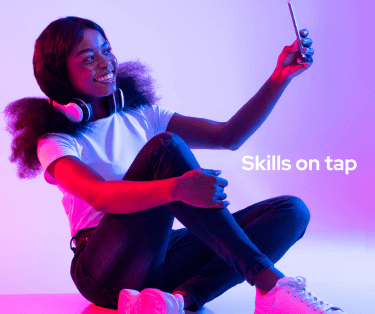
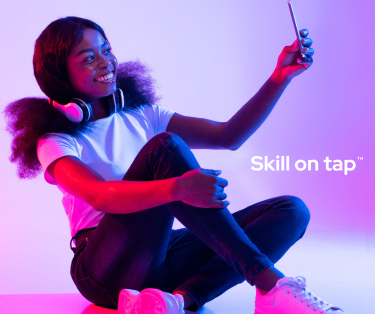
Onboarding step 3 (#162)
* feat: prepare UI and logic for onboarding step 1:basic info

* fix: adjust steps footer to show number of steps

* fix: uncomment code snippet

* feat: abstract reusable onboarding step controller into separate component

* chore: populate initial username and about details from skillrDDto

* feat: build social media onboarding step and plug to backend

* feat: prepare UI and upload logic for profile image onboarding

* chore: change 'skills' to 'skill' in onboarding banner image

* feat: enable image cropping and upload image to backend

* chore: add imageToCrop to useCallback deps

* chore: remove unused reject parameter and Area type assertion

Changed region(s): [[0.6453, 0.4873, 0.968, 0.5732]]

diff --git a/pages/onboarding/skillr/steps/image.tsx b/pages/onboarding/skillr/steps/image.tsx
@@ -1,14 +1,216 @@
-import React from 'react';
+import React, { ChangeEvent, useCallback, useState } from 'react';
+import { GetServerSideProps } from 'next';
 import OnboardingLayout from '@/components/UI/Onboarding/OnboardingLayout/OnboardingLayout';
+import { SkillrDDto } from 'pages/api/skillrs/me';
+import { authedFetch } from '@/lib/authed-fetch';
+import { getUnexpiredToken } from '@/lib/api-helpers';
+import { getSkillrById } from 'pages/api/skillrs/[skillrId]';
+import StepsController from '@/components/UI/Onboarding/StepsController/StepsController';
+import { SkillrOnboardingSteps } from '@/lib/types/skillr';
+import { Modal } from 'react-responsive-modal';
+import 'react-responsive-modal/styles.css';
+import Cropper, { Area } from 'react-easy-crop';
+import getCroppedImg from '@/lib/crop-image';
+import Router from 'next/router';
 
-type UploadImageProps = {};
+type UploadImageProps = {
+    skillrDDto: SkillrDDto;
+};
 
-const UploadImage: React.FC<UploadImageProps> = () => {
+const UploadImage: React.FC<UploadImageProps> = ({ skillrDDto }) => {
+    const [image, setImage] = useState<string | null>(skillrDDto.profileImage);
+    const [isLoading, setIsLoading] = useState<boolean>(false);
+    const [uploadError, setUploadError] = useState<string>('');
+
+    // Crop state details
+    const [cropModalOpen, setCropModalOpen] = useState<boolean>(false); // Controls open state of crop modal
+    const [imageToCrop, setImageToCrop] = useState<string>(''); // Original image to be cropped
+    const [crop, setCrop] = useState({ x: 0, y: 0 }); // Crop aspect location
+    const [rotation, setRotation] = useState(0); // Control crop rotation degree
+    const [zoom, setZoom] = useState(1); // Control zoom level
+    const [croppedAreaPixels, setCroppedAreaPixels] = useState<Area>({ width: 0, height: 0, x: 0, y: 0 }); // CroppedAreaPixels for generating cropped image
+    const [croppedImageFile, setCroppedImageFile] = useState<File | null>(null); // File form of cropped image. To be uploaded to the backend
+
+    const onCropComplete = useCallback((_croppedArea, areaPixels) => {
+        console.log(areaPixels);
+        setCroppedAreaPixels(areaPixels);
+    }, []);
+
+    const initiateCrop = (e: ChangeEvent<HTMLInputElement>) => {
+        const imageFile = e.target.files?.[0];
+        if (!imageFile) {
+            return;
+        }
+        // After choosing the image, generate a url of the image and open the crop modal for the user to crop the image.
+        setImageToCrop(URL.createObjectURL(imageFile));
+        setCropModalOpen(true);
+        e.target.value = ''; // Then, reset file input
+    };
+
+    const saveCroppedImage = useCallback(async () => {
+        try {
+            // After cropping, generate cropped image url and image file, then store in appropriate states
+            const result = await getCroppedImg(imageToCrop, croppedAreaPixels, rotation);
+            if (result) {
+                setImage(result.url);
+                setCroppedImageFile(new File([result.blob!], 'profile-image.png', { type: 'image/png' }));
+            }
+            onCloseModal();
+        } catch (e) {
+            console.error(e);
+        }
+    }, [croppedAreaPixels, rotation, imageToCrop]);
+
+    const uploadCroppedImage = async () => {
+        // If there is no new image file upload, skip upload and navigate to next step
+        if (!croppedImageFile) {
+            Router.push(`/onboarding/skillr/steps/content`);
+            return;
+        }
+
+        const formData = new FormData();
+        formData.append('file', croppedImageFile);
+        formData.append('target', 'profileImage');
+
+        setIsLoading(true);
+        try {
+            const data = await authedFetch('/api/skillrs/media', {
+                method: 'POST',
+                body: formData,
+            }).then((res) => res.json());
+
+            if (data.profileImage) {
+                Router.push(`/onboarding/skillr/steps/content`);
+            } else {
+                setUploadError(data.errors?.[0]?.messages?.[0]);
+            }
+        } catch (error) {
+            console.log(error);
+        }
+        setIsLoading(false);
+    };
+
+    const onCloseModal = () => setCropModalOpen(false);
+
     return (
         <OnboardingLayout>
-            <div></div>
+            <div className="pt-5 pb-9">
+                <div className="w-full">
+                    <div className="flex px-4 flex-col items-center">
+                        <h2 className="font-semibold mb-1 text-xl md:text-3xl text-center">Profile</h2>
+                        <p className="text-sm text-center">
+                            Complete all required fields below. Don&apos;t worry, you can always change them later.
+                        </p>
+                    </div>
+                    <hr className="my-4 md:my-5" />
+                    <div className="px-4 md:px-10">
+                        <div className="w-full max-w-[690px] mx-auto flex flex-col space-y-5 md:space-y-5">
+                            <h3 className="text-center font-bold text-xl">
+                                Add a profile photo that clearly shows your face.
+                            </h3>
+                            <div className="flex flex-col pt-4 items-center w-full">
+                                <div className="flex relative items-center justify-center">
+                                    <div className="bg-white rounded-full">
+                                        <img
+                                            className="rounded-full object-cover w-[160px] h-[160px]"
+                                            src={image ?? '/avatar-placeholder.svg'}
+                                            alt={skillrDDto.user?.displayName}
+                                        ></img>
+                                    </div>
+                                    <div className="absolute z-10 bottom-0 right-0">
+                                        <div className="relative">
+                                            <input
+                                                className="top-0 absolute w-full cursor-pointer opacity-0 h-full"
+                                                type="file"
+                                                onChange={initiateCrop}
+                                                accept="image/jpeg, image/png"
+                                            />
+                                            <div className="rounded-full bg-white cursor-pointer shadow-skillr-lg w-14 h-14 justify-center flex">
+                                                <img className="w-8" src="/icons/camera.svg" alt="Edit" />
+                                            </div>
+                                        </div>
+                                    </div>
+                                    <Modal
+                                        styles={{ modal: { padding: 0, borderRadius: 8 } }}
+                                        showCloseIcon={false}
+                                        open={cropModalOpen}
+                                        onClose={onCloseModal}
+                                        center
+                                    >
+                                        <div className="w-80 md:w-96">
+                                            <h3 className="font-bold text-xl py-3 px-6">Crop Image</h3>
+                                            <div className="h-[300px] bg-gray-600 relative">
+                                                <Cropper
+                                                    image={imageToCrop}
+                                                    crop={crop}
+                                                    rotation={rotation}
+                                                    zoom={zoom}
+                                                    aspect={1}
+                                                    onCropChange={setCrop}
+                                                    onRotationChange={setRotation}
+                                                    onCropComplete={onCropComplete}
+                                                    onZoomChange={setZoom}
+                                                />
+                                            </div>
+                                            <div className="flex w-full justify-center py-3 left-0 space-x-12 bg-white">
+                                                <button
+                                                    onClick={onCloseModal}
+                                                    type="button"
+                                                    className="w-[109px] font-semibold h-[52px] transition-all bg-transparent disabled:text-gray-300 text-gray-500 rounded-lg"
+                                                >
+                                                    Back
+                                                </button>
+
+                                                <button
+                                                    type="submit"
+                                                    onClick={saveCroppedImage}
+                                                    className="w-[109px] font-semibold h-[52px] transition-all bg-skillr-pink disabled:bg-gray-200 text-white rounded-lg"
+                                                >
+                                                    Done
+                                                </button>
+                                            </div>
+                                        </div>
+                                    </Modal>
+                                </div>
+
+                                <div className="space-y-5 md:space-y-9">
+                                    {!!uploadError && (
+                                        <p className="text-skillr-pink text-center text-xs">{uploadError}</p>
+                                    )}
+                                </div>
+                                <div className="mt-12">
+                                    <StepsController
+                                        current={SkillrOnboardingSteps.PROFILE_IMAGE}
+                                        isNextDisabled={!image || isLoading}
+                                        onNextClick={uploadCroppedImage}
+                                    />
+                                </div>
+                            </div>
+                        </div>
+                    </div>
+                </div>
+            </div>
         </OnboardingLayout>
     );
 };
 
 export default UploadImage;
+
+export const getServerSideProps: GetServerSideProps = async (ctx) => {
+    const token = await getUnexpiredToken(ctx.req, ctx.res);
+    if (!token) {
+        return {
+            redirect: {
+                permanent: false,
+                destination: `/onboarding/skillr`,
+            },
+            props: {},
+        };
+    }
+
+    const skillr = await getSkillrById(token.id);
+
+    return {
+        props: { skillrDDto: skillr },
+    };
+};

diff --git a/lib/crop-image.ts b/lib/crop-image.ts
@@ -1,0 +1,83 @@
+import { Area } from 'react-easy-crop';
+
+export const createImage = (url: string): Promise<HTMLImageElement> =>
+    new Promise((resolve, reject) => {
+        const image = new Image();
+        image.addEventListener('load', () => resolve(image));
+        image.addEventListener('error', (error) => reject(error));
+        image.setAttribute('crossOrigin', 'anonymous'); // needed to avoid cross-origin issues on CodeSandbox
+        image.src = url;
+    });
+
+export function getRadianAngle(degreeValue: number) {
+    return (degreeValue * Math.PI) / 180;
+}
+
+/**
+ * Returns the new bounding area of a rotated rectangle.
+ */
+export function rotateSize(width: number, height: number, rotation: number) {
+    const rotRad = getRadianAngle(rotation);
+
+    return {
+        width: Math.abs(Math.cos(rotRad) * width) + Math.abs(Math.sin(rotRad) * height),
+        height: Math.abs(Math.sin(rotRad) * width) + Math.abs(Math.cos(rotRad) * height),
+    };
+}
+
+/**
+ * This function was adapted from the one in the ReadMe of https://github.com/DominicTobias/react-image-crop
+ */
+export default async function getCroppedImg(
+    imageSrc: string,
+    pixelCrop: Area,
+    rotation = 0,
+    flip = { horizontal: false, vertical: false }
+): Promise<{ blob: Blob | null; url: string } | null> {
+    const image = await createImage(imageSrc);
+    const canvas = document.createElement('canvas');
+    const ctx = canvas.getContext('2d');
+
+    if (!ctx) {
+        return null;
+    }
+
+    const rotRad = getRadianAngle(rotation);
+
+    // calculate bounding box of the rotated image
+    const { width: bBoxWidth, height: bBoxHeight } = rotateSize(image.width, image.height, rotation);
+
+    // set canvas size to match the bounding box
+    canvas.width = bBoxWidth;
+    canvas.height = bBoxHeight;
+
+    // translate canvas context to a central location to allow rotating and flipping around the center
+    ctx.translate(bBoxWidth / 2, bBoxHeight / 2);
+    ctx.rotate(rotRad);
+    ctx.scale(flip.horizontal ? -1 : 1, flip.vertical ? -1 : 1);
+    ctx.translate(-image.width / 2, -image.height / 2);
+
+    // draw rotated image
+    ctx.drawImage(image, 0, 0);
+
+    // croppedAreaPixels values are bounding box relative
+    // extract the cropped image using these values
+    const data = ctx.getImageData(pixelCrop.x, pixelCrop.y, pixelCrop.width, pixelCrop.height);
+
+    // set canvas width to final desired crop size - this will clear existing context
+    canvas.width = pixelCrop.width;
+    canvas.height = pixelCrop.height;
+
+    // paste generated rotate image at the top left corner
+    ctx.putImageData(data, 0, 0);
+
+    // As Base64 string
+    // return canvas.toDataURL('image/jpeg');
+
+    // As a blob
+    return new Promise((resolve) => {
+        canvas.toBlob((blob) => {
+            resolve({ blob, url: URL.createObjectURL(blob as Blob) });
+        }, 'image/png');
+    });
+}
